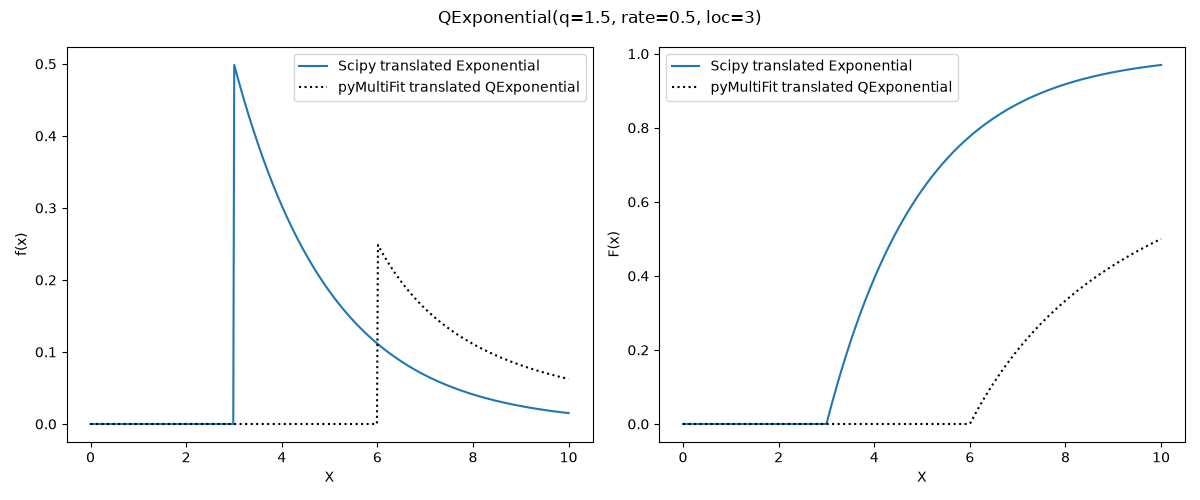
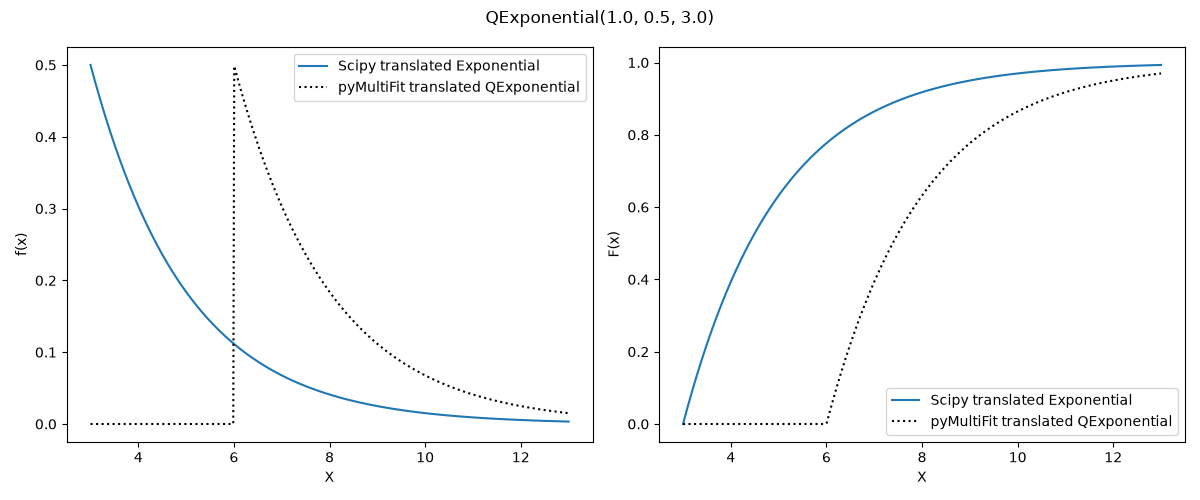
Q-exponential -example fixes

diff --git a/examples/basic/q_exponential_d.py b/examples/basic/q_exponential_d.py
@@ -6,22 +6,22 @@ from scipy.stats import expon
 
 from pymultifit.distributions.generalized import QExponentialDistribution
 
-x_values = np.linspace(start=0, stop=10, num=500)
+x_values1 = np.linspace(start=0, stop=10, num=500)
 
-y_multifit = QExponentialDistribution(normalize=True)
-y_scipy = expon
+y_multifit1 = QExponentialDistribution(q=1.0, rate=1.0, loc=0.0, normalize=True)
+y_scipy1 = expon
 
 f, ax = plt.subplots(1, 2, figsize=(12, 5))
 
-ax[0].plot(x_values, y_scipy.pdf(x=x_values), label="Scipy Exponential")
-ax[0].plot(x_values, y_multifit.pdf(x_values), "k:", label="pyMultiFit QExponential")
+ax[0].plot(x_values1, y_scipy1.pdf(x=x_values1), label="Scipy Exponential")
+ax[0].plot(x_values1, y_multifit1.pdf(x_values1), "k:", label="pyMultiFit QExponential")
 ax[0].set_ylabel("f(x)")
 
-ax[1].plot(x_values, y_scipy.cdf(x=x_values), label="Scipy Exponential")
-ax[1].plot(x_values, y_multifit.cdf(x_values), "k:", label="pyMultiFit QExponential")
+ax[1].plot(x_values1, y_scipy1.cdf(x=x_values1), label="Scipy Exponential")
+ax[1].plot(x_values1, y_multifit1.cdf(x_values1), "k:", label="pyMultiFit QExponential")
 ax[1].set_ylabel("F(x)")
 
-f.suptitle("QExponential(1, 1)")
+f.suptitle("QExponential(1.0, 1.0, 0.0)")
 
 for i in ax:
     i.set_xlabel("X")
@@ -29,19 +29,21 @@ for i in ax:
 plt.tight_layout()
 plt.savefig("./../../images/q_exponential_example1.png")
 
-y_multifit = QExponentialDistribution(q=1.5, rate=0.5, loc=3, normalize=True)
+x_values2 = np.linspace(start=3, stop=13, num=500)
+
+y_multifit2 = QExponentialDistribution(q=1.0, rate=0.5, loc=3.0, normalize=True)
 
 f, ax = plt.subplots(1, 2, figsize=(12, 5))
 
-ax[0].plot(x_values, y_scipy.pdf(x=x_values, loc=3, scale=2), label="Scipy translated Exponential")
-ax[0].plot(x_values, y_multifit.pdf(x_values), "k:", label="pyMultiFit translated QExponential")
+ax[0].plot(x_values2, expon.pdf(x=x_values2, loc=3.0, scale=2.0), label="Scipy translated Exponential")
+ax[0].plot(x_values2, y_multifit2.pdf(x_values2), "k:", label="pyMultiFit translated QExponential")
 ax[0].set_ylabel("f(x)")
 
-ax[1].plot(x_values, y_scipy.cdf(x=x_values, loc=3, scale=2), label="Scipy translated Exponential")
-ax[1].plot(x_values, y_multifit.cdf(x_values), "k:", label="pyMultiFit translated QExponential")
+ax[1].plot(x_values2, expon.cdf(x=x_values2, loc=3.0, scale=2.0), label="Scipy translated Exponential")
+ax[1].plot(x_values2, y_multifit2.cdf(x_values2), "k:", label="pyMultiFit translated QExponential")
 ax[1].set_ylabel("F(x)")
 
-f.suptitle(r"QExponential(q=1.5, rate=0.5, loc=3)")
+f.suptitle(r"QExponential(1.0, 0.5, 3.0)")
 
 for i in ax:
     i.set_xlabel("X")

diff --git a/src/pymultifit/distributions/utilities_d.py b/src/pymultifit/distributions/utilities_d.py
@@ -2673,11 +2673,12 @@ def q_exponential_log_pdf_(
     """
     x_arr, rej_ = reject_x(x, q, rate, loc=loc)
 
-    if rej_ or q >= 2.0 or rate <= 0.0 or amplitude <= 0.0:
+    if rej_ or q >= 2.0 or rate <= 0.0 or np.isnan(q) or np.isnan(rate) or amplitude <= 0.0:
         return np.full(x_arr.shape, NAN)
 
     z = x_arr - loc
-    f1 = LOG((2.0 - q) * rate)
+
+    f1 = LOG((2.0 - q) * rate) if normalize else 0.0
 
     if np.isclose(q, 1.0):
         f2 = -rate * z
@@ -2789,7 +2790,7 @@ def q_exponential_cdf_(
     """
     x_arr, rej_ = reject_x(x, q, rate, loc=loc)
 
-    if rej_ or q >= 2.0 or rate <= 0.0 or amplitude <= 0.0:
+    if rej_ or q >= 2.0 or rate <= 0.0 or np.isnan(q) or np.isnan(rate) or amplitude <= 0.0:
         return np.full(x_arr.shape, NAN)
 
     z = x_arr - loc

diff --git a/src/pymultifit/distributions/generalized/q_exponential_d.py b/src/pymultifit/distributions/generalized/q_exponential_d.py
@@ -46,9 +46,6 @@ class QExponentialDistribution(BaseDistribution):
         self.loc = loc
         self.normalize = normalize
 
-    def _is_invalid_param(self) -> bool:
-        return self.q >= 2.0 or self.rate <= 0.0 or np.isnan(self.q) or np.isnan(self.rate)
-
     def logpdf(self, x: ArrayLike) -> NDArray:
         if self._is_invalid_param():
             return np.full_like(x, np.nan, dtype=np.float64)
